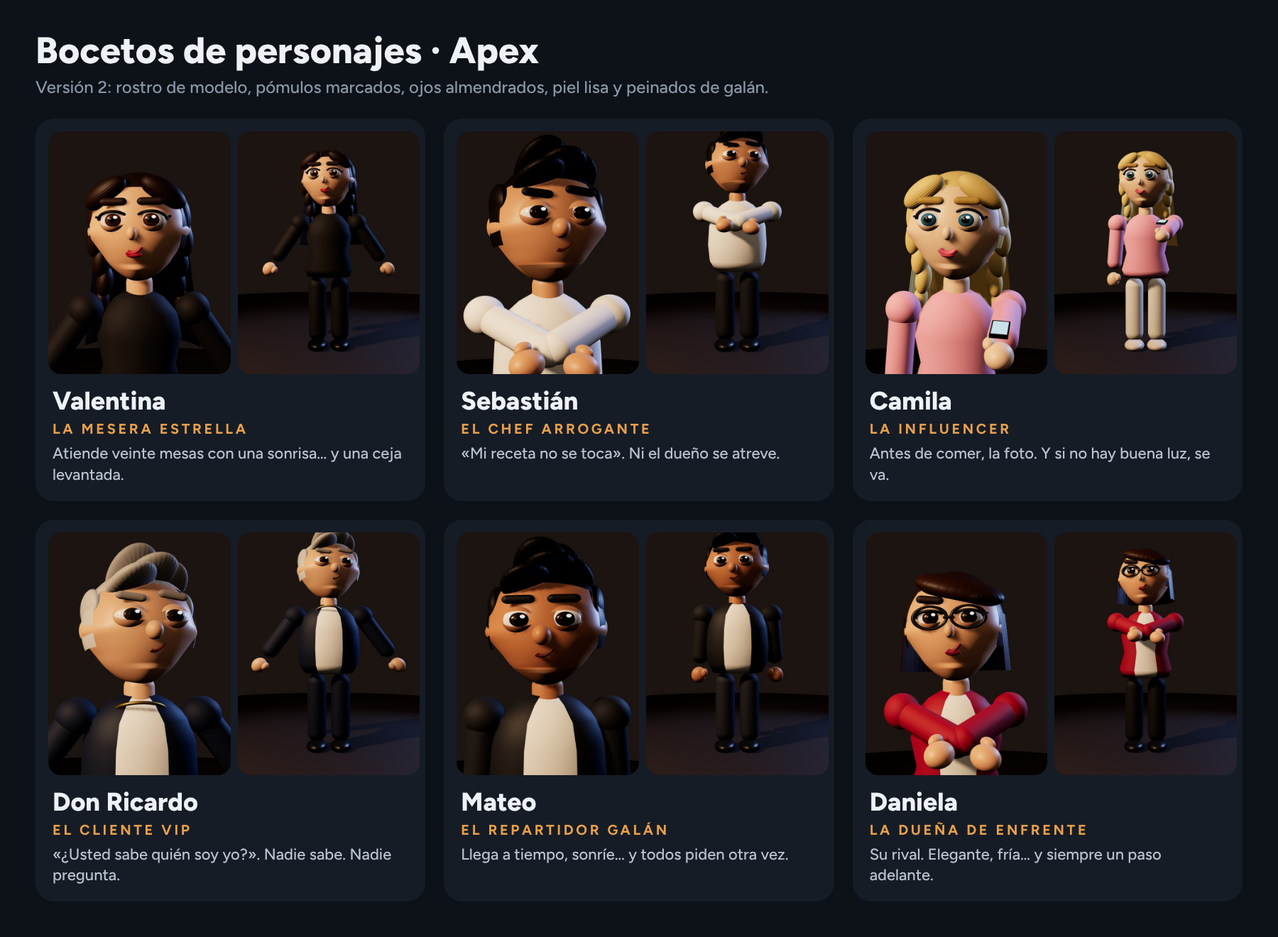
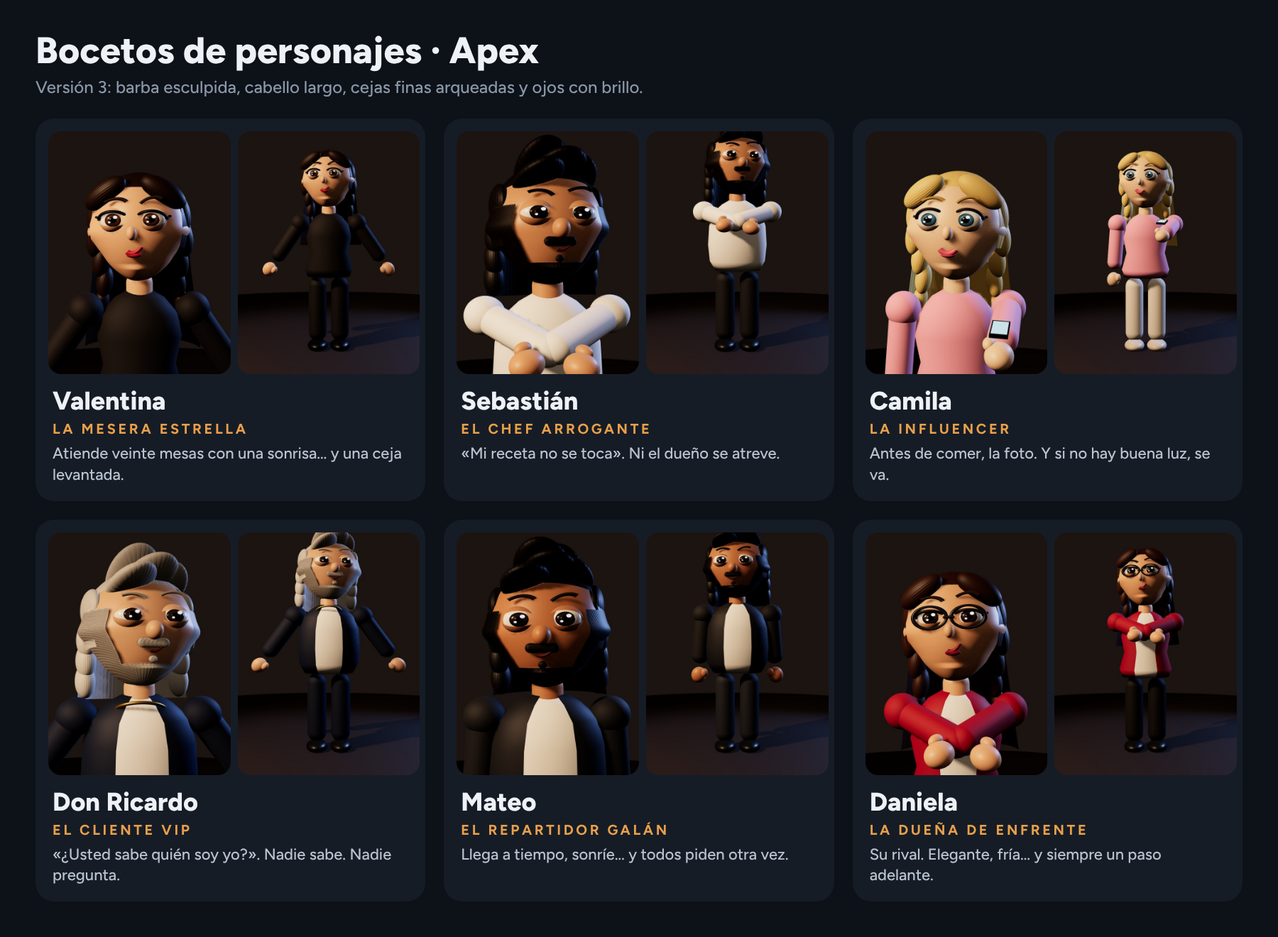
Bocetos v3: barba esculpida, cabello largo, cejas finas y ojos detallados; robot «Chispa» v2 moderno
Claude-Session: https://claude.ai/code/session_016r3h3eddn8zLcxunDkNv4C

diff --git a/produccion/redes/voxel/robot3d.js b/produccion/redes/voxel/robot3d.js
@@ -1,77 +1,67 @@
-// «Chispa»: robot mesero retro, raro y único (no es el orbe). Cuerpo de huevo esmaltado crema con bandas de cobre,
-// una sola rueda, cuello de fuelle que se estira, cabeza de tambor con un ojo-lente enorme y otro diminuto, dos antenas desparejas,
-// una oreja-antena parabólica, brazos largos de tres dedos y una ventanilla en la barriga con engranajes que brillan.
+// «Chispa» v2: robot mesero moderno y elegante (no es el orbe). Flota sobre un anillo de luz naranja, cuerpo blanco perlado
+// con placas grafito, hombros anchos y cintura fina, casco con visor negro brillante donde los ojos son luces LED que cambian de gesto,
+// aletas laterales con franjas de neón y un núcleo encendido en el pecho.
 function robot3d(cfg = {}) {
-  const c = Object.assign({ esmalte: "#efe4cf", cobre: "#c8743a", acento: "#2bb3a8", ojo: "#ffb347" }, cfg);
-  const raiz = new THREE.Group(), M = (col, r = 0.4, m = 0) => new THREE.MeshStandardMaterial({ color: col, roughness: r, metalness: m });
-  const mE = M(c.esmalte, 0.28), mC = M(c.cobre, 0.32, 0.85), mN = M("#1a1b1f", 0.5), mA = M(c.acento, 0.35, 0.2), mG = new THREE.MeshPhysicalMaterial({ color: 0xffffff, roughness: 0.05, transmission: 0.6, transparent: true, opacity: 0.35 });
-  const add = (geo, m, x, y, z, padre = raiz) => { const o = new THREE.Mesh(geo, m); o.position.set(x, y, z); o.castShadow = o.receiveShadow = true; padre.add(o); return o; };
-  // rueda
-  const rueda = add(new THREE.TorusGeometry(0.17, 0.065, 18, 40), mN, 0, 0.235, 0); rueda.rotation.y = PI / 2;
-  const cubo = add(new THREE.CylinderGeometry(0.1, 0.1, 0.1, 28), mC, 0, 0.235, 0); cubo.rotation.z = PI / 2;
-  add(new THREE.CylinderGeometry(0.035, 0.05, 0.22, 16), mC, 0, 0.42, 0);
-  // cuerpo de huevo invertido
-  const perfil = [[0.001, 0.0], [0.16, 0.02], [0.3, 0.12], [0.38, 0.3], [0.4, 0.48], [0.36, 0.66], [0.26, 0.8], [0.12, 0.87], [0.001, 0.88]].map(([r, h]) => new THREE.Vector2(r, h));
-  const cuerpo = add(new THREE.LatheGeometry(perfil, 56), mE, 0, 0.5, 0);
-  [[0.74, 0.365], [1.2, 0.34]].forEach(([y, r]) => { const b = add(new THREE.TorusGeometry(r, 0.018, 10, 56), mC, 0, y, 0); b.rotation.x = PI / 2; });
-  // ventanilla con engranajes
-  const cv = document.createElement("canvas"); cv.width = cv.height = 256; const g = cv.getContext("2d"); const tex = new THREE.CanvasTexture(cv); tex.colorSpace = THREE.SRGBColorSpace;
-  const ventana = add(new THREE.CircleGeometry(0.13, 40), new THREE.MeshBasicMaterial({ map: tex, toneMapped: false }), 0, 0.98, 0.402);
-  const aro = add(new THREE.TorusGeometry(0.135, 0.022, 12, 40), mC, 0, 0.98, 0.4);
-  for (let i = 0; i < 8; i++) { const a = (i / 8) * 2 * PI; add(new THREE.SphereGeometry(0.012, 10, 8), mC, Math.cos(a) * 0.135, 0.82 + Math.sin(a) * 0.135 + 0.16, 0.42); }
-  // perillas y botones
-  [[-0.14, 1.27, mA], [-0.06, 1.29, M("#e2463a", 0.4)], [0.13, 1.28, mC]].forEach(([x, y, m]) => add(new THREE.SphereGeometry(0.028, 14, 10), m, x, y, Math.sqrt(Math.max(0, 0.27 * 0.27 - x * x)) + 0.005));
-  // brazos: hombro de bola, segmentos largos, pinza de tres dedos
-  const brazos = [-1, 1].map((d) => { const p = new THREE.Group(); p.position.set(d * 0.38, 1.0, 0); raiz.add(p); add(new THREE.SphereGeometry(0.07, 18, 14), mC, 0, 0, 0, p);
-    const s1 = add(new THREE.CapsuleGeometry(0.035, 0.3, 6, 14), mE, 0, -0.2, 0, p); const codo = new THREE.Group(); codo.position.set(0, -0.38, 0); p.add(codo);
-    add(new THREE.SphereGeometry(0.05, 14, 10), mC, 0, 0, 0, codo); add(new THREE.CapsuleGeometry(0.03, 0.26, 6, 14), mE, 0, -0.17, 0, codo);
-    const mano = new THREE.Group(); mano.position.set(0, -0.34, 0); codo.add(mano); add(new THREE.CylinderGeometry(0.045, 0.035, 0.05, 16), mC, 0, 0, 0, mano);
-    [0, 2.1, 4.2].forEach((a) => { const f = add(new THREE.CapsuleGeometry(0.012, 0.07, 4, 8), mN, Math.cos(a) * 0.03, -0.06, Math.sin(a) * 0.03, mano); f.rotation.set(Math.sin(a) * 0.4, 0, -Math.cos(a) * 0.4); });
+  const c = Object.assign({ blanco: "#f2f3f5", grafito: "#25282e", neon: "#ff7a2e", neon2: "#ffd08a" }, cfg);
+  const raiz = new THREE.Group(), cuerpo = new THREE.Group(); raiz.add(cuerpo);
+  const P = (col, r, m = 0, cc = 0) => new THREE.MeshPhysicalMaterial({ color: col, roughness: r, metalness: m, clearcoat: cc, clearcoatRoughness: 0.15 });
+  const mB = P(c.blanco, 0.32, 0.05, 1), mG = P(c.grafito, 0.38, 0.6, 0.6), mN = new THREE.MeshBasicMaterial({ color: c.neon, toneMapped: false });
+  const add = (geo, m, x, y, z, padre = cuerpo) => { const o = new THREE.Mesh(geo, m); o.position.set(x, y, z); o.castShadow = o.receiveShadow = true; padre.add(o); return o; };
+  const resplandor = (() => { const cv = document.createElement("canvas"); cv.width = cv.height = 128; const g = cv.getContext("2d"), gr = g.createRadialGradient(64, 64, 0, 64, 64, 64);
+    gr.addColorStop(0, "rgba(255,170,90,1)"); gr.addColorStop(0.35, "rgba(255,122,46,.45)"); gr.addColorStop(1, "rgba(255,122,46,0)"); g.fillStyle = gr; g.fillRect(0, 0, 128, 128); return new THREE.CanvasTexture(cv); })();
+  const brilla = (x, y, z, s, padre = cuerpo, op = 0.8) => { const sp = new THREE.Sprite(new THREE.SpriteMaterial({ map: resplandor, transparent: true, opacity: op, blending: THREE.AdditiveBlending, depthWrite: false })); sp.position.set(x, y, z); sp.scale.setScalar(s); padre.add(sp); return sp; };
+  // base flotante: falda cónica que termina en un anillo de luz
+  const falda = add(new THREE.LatheGeometry([[0.001, 0.38], [0.12, 0.36], [0.2, 0.42], [0.25, 0.55], [0.27, 0.66], [0.001, 0.66]].map(([r, h]) => new THREE.Vector2(r, h)), 48), mB, 0, 0, 0);
+  const anillo = add(new THREE.TorusGeometry(0.14, 0.02, 12, 48), mN, 0, 0.36, 0); anillo.rotation.x = PI / 2;
+  const halo = brilla(0, 0.3, 0, 0.9, cuerpo, 0.9);
+  const haz = add(new THREE.ConeGeometry(0.22, 0.34, 32, 1, true), new THREE.MeshBasicMaterial({ color: c.neon, transparent: true, opacity: 0.07, blending: THREE.AdditiveBlending, depthWrite: false, side: THREE.DoubleSide }), 0, 0.17, 0); haz.rotation.x = PI;
+  // torso en V: hombros anchos, cintura fina; placas grafito y núcleo en el pecho
+  const torso = add(new THREE.LatheGeometry([[0.001, 0.64], [0.2, 0.64], [0.19, 0.74], [0.24, 0.92], [0.33, 1.1], [0.34, 1.2], [0.26, 1.3], [0.12, 1.34], [0.001, 1.35]].map(([r, h]) => new THREE.Vector2(r, h)), 56), mB, 0, 0, 0);
+  torso.scale.z = 0.72;
+  // (placa de pecho retirada: se veía como una franja)
+  const nucleo = add(new THREE.TorusGeometry(0.055, 0.014, 12, 40), mN, 0, 1.06, 0.245); const nucleoIn = add(new THREE.CircleGeometry(0.04, 32), new THREE.MeshBasicMaterial({ color: c.neon2, toneMapped: false }), 0, 1.06, 0.244);
+  brilla(0, 1.06, 0.27, 0.28);
+  add(new THREE.TorusGeometry(0.205, 0.012, 10, 48), mG, 0, 0.66, 0).rotation.x = PI / 2;
+  // hombros, brazos segmentados con franja de neón y manos de tres dedos
+  const brazos = [-1, 1].map((d) => { const p = new THREE.Group(); p.position.set(d * 0.37, 1.18, 0); cuerpo.add(p);
+    const hombro = add(new THREE.SphereGeometry(0.095, 28, 20), mB, 0, 0, 0, p); add(new THREE.SphereGeometry(0.1, 28, 14, 0, 2 * PI, 0, PI * 0.45), mG, 0, 0.01, 0, p);
+    add(new THREE.CapsuleGeometry(0.052, 0.2, 8, 20), mB, 0, -0.18, 0, p); const codo = new THREE.Group(); codo.position.set(0, -0.32, 0); p.add(codo);
+    add(new THREE.SphereGeometry(0.05, 20, 14), mG, 0, 0, 0, codo); add(new THREE.CapsuleGeometry(0.048, 0.18, 8, 20), mG, 0, -0.14, 0, codo);
+    add(new THREE.BoxGeometry(0.012, 0.16, 0.05), mN, d * 0.046, -0.14, 0, codo);
+    const mano = new THREE.Group(); mano.position.set(0, -0.28, 0); codo.add(mano); add(new THREE.SphereGeometry(0.055, 20, 14), mB, 0, 0, 0, mano).scale.set(1, 0.8, 0.7);
+    [-1, 0, 1].forEach((k) => add(new THREE.CapsuleGeometry(0.013, 0.05, 4, 10), mG, k * 0.022, -0.06, 0.01, mano)); add(new THREE.CapsuleGeometry(0.014, 0.04, 4, 10), mG, -d * 0.05, -0.02, 0.02, mano).rotation.z = d * 0.8;
     return { p, codo, mano }; });
-  // bandeja con una tacita en la mano derecha
-  const bandeja = new THREE.Group(); brazos[1].mano.add(bandeja); bandeja.position.set(0, -0.1, 0.1);
-  add(new THREE.CylinderGeometry(0.17, 0.16, 0.014, 40), M("#b9bec4", 0.2, 0.9), 0, 0, 0.06, bandeja);
-  add(new THREE.CylinderGeometry(0.04, 0.032, 0.06, 20), M("#f4f1ea", 0.3), 0.03, 0.035, 0.07, bandeja);
-  // cuello de fuelle
-  const cuello = new THREE.Group(); cuello.position.set(0, 1.38, 0); raiz.add(cuello);
-  for (let i = 0; i < 6; i++) { const t = add(new THREE.TorusGeometry(0.075 - (i % 2) * 0.012, 0.025, 10, 28), i % 2 ? mN : mC, 0, i * 0.045, 0, cuello); t.rotation.x = PI / 2; }
-  // cabeza de tambor (cilindro acostado), ojo-lente enorme y ojo diminuto
-  const cabeza = new THREE.Group(); cabeza.position.set(0, 0.36, 0); cuello.add(cabeza);
-  const tambor = add(new THREE.CylinderGeometry(0.24, 0.24, 0.46, 48), mE, 0, 0, 0, cabeza); tambor.rotation.z = PI / 2;
-  [-1, 1].forEach((d) => { const tapa = add(new THREE.CylinderGeometry(0.245, 0.245, 0.03, 48), mC, d * 0.24, 0, 0, cabeza); tapa.rotation.z = PI / 2; });
-  const ojo = new THREE.Group(); ojo.position.set(-0.07, 0.02, 0.2); cabeza.add(ojo);
-  const barril = add(new THREE.CylinderGeometry(0.14, 0.15, 0.12, 40), mN, 0, 0, 0.04, ojo); barril.rotation.x = PI / 2;
-  const aroOjo = add(new THREE.TorusGeometry(0.145, 0.02, 12, 40), mC, 0, 0, 0.1, ojo);
-  const iris = add(new THREE.CircleGeometry(0.1, 40), new THREE.MeshBasicMaterial({ color: c.ojo, toneMapped: false }), 0, 0, 0.101, ojo);
-  const pupila = add(new THREE.CircleGeometry(0.045, 32), new THREE.MeshBasicMaterial({ color: 0x120a04 }), 0, 0, 0.102, ojo);
-  const cristal = add(new THREE.SphereGeometry(0.13, 32, 16, 0, 2 * PI, 0, PI / 2), mG, 0, 0, 0.09, ojo); cristal.rotation.x = PI / 2; cristal.scale.z = 0.5;
-  const brillo = add(new THREE.CircleGeometry(0.02, 16), new THREE.MeshBasicMaterial({ color: 0xffffff }), 0.04, 0.05, 0.135, ojo);
-  const luzOjo = new THREE.PointLight(c.ojo, 0.8, 1.2, 2); luzOjo.position.set(0, 0, 0.25); ojo.add(luzOjo);
-  const ojito = new THREE.Group(); ojito.position.set(0.15, 0.08, 0.215); cabeza.add(ojito);
-  const b2 = add(new THREE.CylinderGeometry(0.035, 0.04, 0.05, 20), mN, 0, 0, 0.0, ojito); b2.rotation.x = PI / 2;
-  add(new THREE.CircleGeometry(0.024, 20), new THREE.MeshBasicMaterial({ color: c.acento, toneMapped: false }), 0, 0, 0.026, ojito);
-  // boca: rejilla de altavoz
-  for (let i = 0; i < 5; i++) add(new THREE.BoxGeometry(0.012, 0.05, 0.01), mN, 0.08 + i * 0.022, -0.13, 0.205, cabeza);
-  // antenas desparejas con bombillo y oreja parabólica
-  const ant1 = add(new THREE.CylinderGeometry(0.008, 0.008, 0.32, 8), mC, -0.12, 0.38, -0.02, cabeza); ant1.rotation.z = 0.25;
-  const bomb1 = add(new THREE.SphereGeometry(0.035, 16, 12), new THREE.MeshBasicMaterial({ color: 0xffd27a, toneMapped: false }), -0.16, 0.54, -0.02, cabeza);
-  const ant2 = new THREE.Group(); ant2.position.set(0.12, 0.22, 0); cabeza.add(ant2);
-  const a2a = add(new THREE.CylinderGeometry(0.007, 0.007, 0.14, 8), mC, 0, 0.07, 0, ant2); const a2b = add(new THREE.CylinderGeometry(0.007, 0.007, 0.12, 8), mC, 0.05, 0.16, 0, ant2); a2b.rotation.z = -1.0;
-  const bomb2 = add(new THREE.SphereGeometry(0.022, 14, 10), new THREE.MeshBasicMaterial({ color: c.acento, toneMapped: false }), 0.1, 0.19, 0, ant2);
-  const oreja = new THREE.Group(); oreja.position.set(0.27, 0.05, 0); cabeza.add(oreja);
-  const plato = add(new THREE.SphereGeometry(0.11, 28, 12, 0, 2 * PI, 0, PI * 0.35), mE, 0.04, 0, 0, oreja); plato.rotation.z = -PI / 2;
-  add(new THREE.CylinderGeometry(0.006, 0.006, 0.08, 6), mC, 0.06, 0, 0, oreja).rotation.z = PI / 2;
+  // cuello y casco con visor negro brillante y ojos LED
+  add(new THREE.CylinderGeometry(0.06, 0.08, 0.1, 24), mG, 0, 1.38, 0);
+  const cabeza = new THREE.Group(); cabeza.position.set(0, 1.58, 0); cuerpo.add(cabeza);
+  const casco = add(new THREE.SphereGeometry(0.2, 48, 32), mB, 0, 0, 0, cabeza); casco.scale.set(1.12, 0.92, 1.0);
+  const cv = document.createElement("canvas"); cv.width = 512; cv.height = 256; const gx = cv.getContext("2d"), texV = new THREE.CanvasTexture(cv); texV.colorSpace = THREE.SRGBColorSpace;
+  const visor = add(new THREE.SphereGeometry(0.205, 48, 24, PI * 0.18, PI * 0.64, PI * 0.33, PI * 0.36), new THREE.MeshPhysicalMaterial({ map: texV, emissiveMap: texV, emissive: 0xffffff, emissiveIntensity: 1.1, color: 0x050608, roughness: 0.08, clearcoat: 1 }), 0, 0, 0, cabeza);
+  visor.scale.set(1.13, 0.93, 1.02);
+  [-1, 1].forEach((d) => { const aleta = add(new THREE.BoxGeometry(0.035, 0.2, 0.12), mG, d * 0.23, 0.02, -0.02, cabeza); aleta.rotation.z = -d * 0.18;
+    add(new THREE.BoxGeometry(0.012, 0.16, 0.02), mN, d * 0.25, 0.02, 0.03, cabeza).rotation.z = -d * 0.18; });
+  add(new THREE.CapsuleGeometry(0.012, 0.09, 4, 8), mG, 0.07, 0.22, -0.02, cabeza).rotation.z = -0.35; const punta = add(new THREE.SphereGeometry(0.022, 14, 10), mN, 0.095, 0.28, -0.02, cabeza);
+  brilla(0.095, 0.28, -0.02, 0.14, cabeza);
+  // ojos LED: dibujados en el visor; gestos: «feliz», «guiño», «enfoca», «hablando»
+  function ojos(t, gesto, voz) {
+    gx.fillStyle = "#030406"; gx.fillRect(0, 0, 512, 256); gx.save(); gx.shadowColor = c.neon; gx.shadowBlur = 26; gx.fillStyle = c.neon2; gx.strokeStyle = c.neon2; gx.lineWidth = 22; gx.lineCap = "round";
+    const parp = (t % 3.6) < 0.12;
+    [[180, -1], [332, 1]].forEach(([x, d]) => {
+      if (parp) { gx.beginPath(); gx.moveTo(x - 36, 128); gx.lineTo(x + 36, 128); gx.stroke(); return; }
+      if (gesto === "feliz" || (gesto === "guiño" && d > 0)) { gx.beginPath(); gx.arc(x, 145, 38, PI * 1.15, PI * 1.85); gx.stroke(); return; }
+      const h = gesto === "enfoca" ? 36 : 64; gx.beginPath(); gx.roundRect(x - 30, 128 - h / 2, 60, h, 26); gx.fill();
+      gx.fillStyle = "rgba(255,255,255,.85)"; gx.beginPath(); gx.arc(x + 12, 128 - h / 4, 8, 0, 2 * PI); gx.fill(); gx.fillStyle = c.neon2; });
+    if (voz > 0.05) { gx.lineWidth = 8; gx.beginPath(); for (let i = 0; i <= 20; i++) { const xx = 196 + i * 6; gx.lineTo(xx, 205 + Math.sin(i * 1.3 + t * 18) * 14 * voz); } gx.stroke(); }
+    gx.restore(); texV.needsUpdate = true;
+  }
   function animar(t, s = {}) {
-    const habla = s.voz || 0; cuello.scale.y = 1 + 0.15 * Math.sin(t * 1.3) * 0.3 + (s.estira || 0); cabeza.rotation.set(Math.sin(t * 0.9) * 0.05, s.mira ?? Math.sin(t * 0.6) * 0.25, Math.sin(t * 0.7) * 0.06 + (s.ladea || 0));
-    oreja.rotation.x = t * 3; bomb1.material.color.setHSL(0.11, 1, 0.55 + 0.25 * Math.abs(Math.sin(t * 4))); bomb2.material.color.setHSL(0.48, 0.8, 0.4 + 0.3 * Math.abs(Math.sin(t * 6 + 1)));
-    const z = 1 + 0.25 * Math.sin(t * 2.5) * (s.enfoca ?? 0.4); iris.scale.setScalar(z); pupila.scale.setScalar(1.4 - 0.5 * z); luzOjo.intensity = 0.6 + habla * 1.2;
-    brazos[0].p.rotation.set(-0.3 + Math.sin(t * 1.1) * 0.08, 0, -0.25); brazos[0].codo.rotation.x = -0.5; brazos[1].p.rotation.set(-0.9, 0, 0.15); brazos[1].codo.rotation.x = -0.9;
-    bandeja.rotation.x = 0.9 + 0.9 - 0.0; bandeja.rotation.x = -(brazos[1].p.rotation.x + brazos[1].codo.rotation.x);
-    g.fillStyle = "#1a0f06"; g.fillRect(0, 0, 256, 256);
-    [[90, 110, 70, 10, 1], [170, 150, 50, 8, -1.6], [120, 190, 36, 7, 2.2]].forEach(([x, y, r, n, v]) => { g.save(); g.translate(x, y); g.rotate(t * v); g.fillStyle = "#ffb347"; g.shadowColor = "#ff8a00"; g.shadowBlur = 18;
-      g.beginPath(); for (let i = 0; i < n * 2; i++) { const a = (i / (n * 2)) * 2 * PI, rr = i % 2 ? r : r * 0.78; g.lineTo(Math.cos(a) * rr, Math.sin(a) * rr); } g.closePath(); g.fill();
-      g.fillStyle = "#1a0f06"; g.beginPath(); g.arc(0, 0, r * 0.3, 0, 2 * PI); g.fill(); g.restore(); });
-    tex.needsUpdate = true; rueda.rotation.x = t * 2;
+    cuerpo.position.y = 0.05 + Math.sin(t * 1.6) * 0.025; cuerpo.rotation.z = Math.sin(t * 0.9) * 0.02;
+    cabeza.rotation.set(Math.sin(t * 0.8) * 0.04 + (s.cabeceo || 0), s.mira ?? Math.sin(t * 0.5) * 0.18, s.ladea ?? 0.08);
+    brazos[0].p.rotation.set(-0.15, 0, -0.16); brazos[0].codo.rotation.x = -0.35;
+    if (s.saluda) { brazos[1].p.rotation.set(-0.3, 0, 2.5); brazos[1].codo.rotation.set(0, 0, 0.4 + Math.sin(t * 7) * 0.35); }
+    else { brazos[1].p.rotation.set(-0.15, 0, 0.16); brazos[1].codo.rotation.x = -0.35; }
+    const pulso = 0.75 + 0.25 * Math.sin(t * 4); halo.material.opacity = 0.7 * pulso; anillo.scale.setScalar(1 + 0.05 * Math.sin(t * 4)); nucleoIn.material.color.setHSL(0.07, 1, 0.55 + 0.15 * pulso);
+    punta.scale.setScalar(0.8 + 0.4 * Math.abs(Math.sin(t * 3))); ojos(t, s.gesto || "normal", s.voz || 0);
   }
   return { raiz, animar };
 }

diff --git a/produccion/redes/voxel/vinil3d.js b/produccion/redes/voxel/vinil3d.js
@@ -25,6 +25,12 @@ VIN.rostro = (geo, R) => {   // deforma una esfera de radio R: mandíbula en V, 
     if (yn < -0.7 && v.z > 0) v.z += 0.025 * R / 0.3 * Math.exp(-(v.x * v.x) / 0.006);          // mentón
     p.setXYZ(i, v.x, v.y, v.z); }
   p.needsUpdate = true; geo.computeVertexNormals(); return geo; };
+VIN.irisMat = (col) => { const cv = document.createElement("canvas"); cv.width = cv.height = 128; const g = cv.getContext("2d"), base = new THREE.Color(col);
+  const c1 = "#" + base.clone().multiplyScalar(1.7).getHexString(), c0 = "#" + base.clone().multiplyScalar(0.45).getHexString();
+  g.fillStyle = c0; g.fillRect(0, 0, 128, 128); const gr = g.createRadialGradient(64, 64, 6, 64, 64, 64); gr.addColorStop(0, c1); gr.addColorStop(0.7, col); gr.addColorStop(0.92, c0); gr.addColorStop(1, "#0a0605");
+  g.fillStyle = gr; g.beginPath(); g.arc(64, 64, 64, 0, 2 * PI); g.fill(); g.strokeStyle = "rgba(255,255,255,.18)"; g.lineWidth = 1.5;
+  for (let i = 0; i < 46; i++) { const a = (i / 46) * 2 * PI; g.beginPath(); g.moveTo(64 + Math.cos(a) * 16, 64 + Math.sin(a) * 16); g.lineTo(64 + Math.cos(a) * 54, 64 + Math.sin(a) * 54); g.stroke(); }
+  const t = new THREE.CanvasTexture(cv); t.colorSpace = THREE.SRGBColorSpace; return new THREE.MeshStandardMaterial({ map: t, roughness: 0.15 }); };
 VIN.crecer = (perfil, d) => perfil.map(([r, h]) => [r > 0.01 ? r + d : r, h]);
 
 function personaVinil(cfg) {
@@ -75,7 +81,10 @@ function personaVinil(cfg) {
     if (c.peinado === "galan") {   // tupé con raya al lado: mechones largos que suben y caen hacia atrás
       [[-0.08, 0.24, 0.15, 0.14, -0.25, 0.3], [0.04, 0.29, 0.1, 0.15, -0.35, 0.08], [0.13, 0.27, 0.05, 0.13, -0.45, -0.25], [-0.02, 0.32, -0.04, 0.16, -0.7, 0.1], [0.07, 0.3, -0.14, 0.14, -0.95, -0.1]]
         .forEach(([x0, y0, z0, r, rx, rz]) => { const m = VIN.esfera(r, mPelo, x0, y0, z0, H, 0.95, 0.42, 1.55); m.rotation.set(rx, 0, rz); });
-      [-1, 1].forEach((d) => VIN.esfera(0.13, mPelo, d * 0.25, 0.12, -0.04, H, 0.42, 0.9, 1.3)); }
+      [-1, 1].forEach((d) => VIN.esfera(0.13, mPelo, d * 0.25, 0.12, -0.04, H, 0.42, 0.9, 1.3));
+      if (c.largo) { const mL = M(c.pelo, { r: 0.45, bump: VIN.surcos, bs: 1.3, lado: THREE.DoubleSide });
+        VIN.malla(new THREE.CylinderGeometry(0.3, 0.33, 0.42, 44, 1, true, PI * 0.6, PI * 0.8), mL, 0, -0.2, -0.03, H);
+        [-1, 1].forEach((d) => { for (let i = 0; i < 3; i++) VIN.esfera(0.08, mPelo, d * 0.27, -0.06 - i * 0.12, -0.08 - i * 0.03, H, 0.7, 1.3, 0.9); }); } }
     if (c.peinado === "melena") { const mL = M(c.pelo, { r: 0.4, bump: VIN.surcos, bs: 1.4, lado: THREE.DoubleSide });   // melena larga en capas con flequillo abierto
       VIN.malla(new THREE.CylinderGeometry(0.29, 0.38, 0.78, 48, 1, true, PI * 0.55, PI * 0.9), mL, 0, -0.38, -0.04, H);
       [-1, 1].forEach((d) => { for (let i = 0; i < 5; i++) { const m = VIN.esfera(0.1 - i * 0.008, mPelo, d * (0.25 + 0.02 * Math.sin(i * 1.7)), 0.08 - i * 0.14, 0.02 - i * 0.03, H, 0.7, 1.35, 0.85); m.rotation.z = d * 0.15; }
@@ -88,11 +97,13 @@ function personaVinil(cfg) {
   const mPar = M(c.piel, { r: 0.62 }), mCeja = M(c.cejas, { r: 0.55 });
   const ojos = [-1, 1].map((d) => { const g = new THREE.Group(); g.position.set(d * 0.108, 0.035, 0.235); H.add(g);
     const bola = new THREE.Group(); g.add(bola); if (c.almendra) g.scale.set(1.12, 0.86, 1); VIN.esfera(0.07, mBlanco, 0, 0, 0, bola, 1, 1.12, 0.8);
-    VIN.esfera(0.042, mIris, 0, 0, 0.042, bola, 1, 1.05, 0.5); VIN.esfera(0.022, mPupila, 0, 0, 0.058, bola, 1, 1, 0.4);
+    VIN.esfera(0.042, c.modelo ? VIN.irisMat(c.iris) : mIris, 0, 0, 0.042, bola, 1, 1.05, 0.5); if (c.modelo) VIN.esfera(0.007, mBrillo, -0.016, -0.014, 0.064, bola); VIN.esfera(0.022, mPupila, 0, 0, 0.058, bola, 1, 1, 0.4);
     const br = VIN.esfera(0.011, mBrillo, 0.014, 0.018, 0.066, bola); br.castShadow = false;
     const par = VIN.malla(new THREE.SphereGeometry(0.076, 32, 16, 0, 2 * PI, 0, PI / 2), mPar, 0, 0, 0, g); par.scale.set(1.02, 1.14, 1.1);
     const parInf = VIN.malla(new THREE.SphereGeometry(0.075, 32, 16, 0, 2 * PI, PI / 2, PI / 2), mPar, 0, 0, 0, g); parInf.scale.set(1.02, 1.1, 1.1); parInf.rotation.x = 0.5;
-    const ceja = VIN.capsula(0.026, 0.09, mCeja, 0, 0.115, 0.03, g); ceja.rotation.z = PI / 2; ceja.scale.set(1, 1, 0.7);
+    let ceja; if (c.modelo) { ceja = new THREE.Group(); ceja.position.set(0, 0.115, 0.03); g.add(ceja);
+      const arco = VIN.malla(new THREE.TorusGeometry(0.085, 0.011, 8, 28, PI * 0.5), mCeja, 0, -0.07, 0, ceja); arco.rotation.z = PI * 0.25 + d * 0.12; arco.scale.set(1.05, 0.8, 0.7); }
+    else { ceja = VIN.capsula(0.026, 0.09, mCeja, 0, 0.115, 0.03, g); ceja.rotation.z = PI / 2; ceja.scale.set(1, 1, 0.7); }
     return { g, bola, par, parInf, ceja, d }; });
   if (c.narizFina) VIN.esfera(0.036, mPiel, 0, -0.04, 0.29, H, 0.8, 1.1, 1.0); else VIN.esfera(0.052, mPiel, 0, -0.045, 0.285, H, 0.85, 1.0, 1.05);   // nariz
   if (c.narizGrande) VIN.esfera(0.068, mPiel, 0, -0.05, 0.285, H, 0.85, 1.05, 1.1);
@@ -102,8 +113,13 @@ function personaVinil(cfg) {
   if (c.bigoteFino) { const b = VIN.capsula(0.01, 0.1, M(c.bigoteFino), 0, -0.098, 0.283, H); b.rotation.z = PI / 2; }
   if (c.gafas) { const mg = M(c.gafas, { r: 0.3 }); ojos.forEach(({ g }) => { const ar = VIN.malla(new THREE.TorusGeometry(0.085, 0.011, 8, 36), mg, 0, 0, 0.045, g); ar.scale.y = 0.85; });
     VIN.capsula(0.008, 0.05, mg, 0, 0.035, 0.29, H).rotation.z = PI / 2; }
-  if (c.barba) { const mb = new THREE.MeshStandardMaterial({ color: c.barba, roughness: 0.95, transparent: true, opacity: 0.38, bumpMap: VIN.surcos, bumpScale: 0.5 });
-    const bb = VIN.malla(new THREE.SphereGeometry(0.304, 48, 16, PI * 0.1, PI * 0.8, PI * 0.74, PI * 0.2), mb, 0, 0, 0, H); bb.scale.set(1, c.modelo ? 1.1 : 1.06, 0.965); if (c.modelo) VIN.rostro(bb.geometry, 0.304); bb.castShadow = false; }
+  if (c.barba) { const mb = M(c.barba, { r: 0.55, bump: VIN.surcos, bs: 1.6, lado: THREE.DoubleSide });
+    const sy = c.modelo ? 1.1 : 1.06, capa = (ph0, phL, th0, thL) => { const o = VIN.malla(new THREE.SphereGeometry(0.312, 56, 20, ph0, phL, th0, thL), mb, 0, 0, 0, H); o.scale.set(1.01, sy, 0.98);
+      if (c.modelo) VIN.rostro(o.geometry, 0.312); return o; };
+    capa(PI * 0.02, PI * 0.96, PI * 0.72, PI * 0.27);                                        // mandíbula y mentón
+    capa(PI * 0.02, PI * 0.24, PI * 0.42, PI * 0.32); capa(PI * 0.74, PI * 0.24, PI * 0.42, PI * 0.32);   // patillas
+    const bg = VIN.capsula(0.026, 0.11, mb, 0, -0.112, 0.268, H); bg.rotation.z = PI / 2; bg.scale.z = 0.6;   // bigote
+    VIN.esfera(0.022, mb, 0, -0.2, 0.25, H, 1, 0.9, 0.6); }
   if (c.pestanas) { const mp = M(c.pestanas, { r: 0.35 }); ojos.forEach(({ par, d }) => {   // delineado sobre el párpado y una «colita» hacia afuera
       const arco = VIN.malla(new THREE.TorusGeometry(0.077, 0.0085, 8, 30, PI * 0.95), mp, 0, 0.004, 0, par); arco.rotation.set(PI / 2, 0, PI * 0.025);
       const cola = VIN.capsula(0.007, 0.03, mp, d * 0.078, 0.012, 0.012, par); cola.rotation.set(0, 0, -d * 1.1); }); }
@@ -138,7 +154,7 @@ function personaVinil(cfg) {
         bola.rotation.set(-(s.my || 0) * 0.25, (s.mx || 0) * 0.35, 0); const eo = 0.92 + 0.08 * ojo; g.scale.set(eo * (c.almendra ? 1.12 : 1), eo * (c.almendra ? 0.86 : 1), eo);
         par.rotation.x = lerp(-1.0, 1.6, Math.pow(cl(lid), 1.7)); parInf.rotation.x = lerp(0.62, 0.35, cl(lid));
         const asim = e.asim && d > 0 ? 1 : 0;
-        ceja.position.y = 0.112 - alto * 0.0075 + asim * 0.018; ceja.rotation.z = PI / 2 + inc * d * 1.25 * (asim ? -1.4 : 1);
+        ceja.position.y = (c.modelo ? 0.125 : 0.112) - alto * 0.0075 + asim * 0.018; ceja.rotation.z = (c.modelo ? 0 : PI / 2) + inc * d * 1.25 * (asim ? -1.4 : 1);
       });
       boca.scale.set(1.25 - ab * 0.25, 0.08 + ab * 0.85, 0.45); boca.visible = ab > 0.05;
       sonrisa.visible = ab <= 0.05; const sg = curva >= 0 ? 1 : -1;

diff --git a/produccion/redes/voxel/robot.py b/produccion/redes/voxel/robot.py
@@ -1,10 +1,11 @@
 """Boceto del robot «Chispa»: hoja con vista de tres cuartos, de frente, de perfil y primer plano de la cabeza.
   python robot.py  →  entregables/redes/bocetos/robot.png"""
-import os, asyncio, importlib.util
+import os, json, asyncio, importlib.util
 AQUI = os.path.dirname(os.path.abspath(__file__)) + "/"
 _spec = importlib.util.spec_from_file_location("motor", AQUI + "../heroes/hacer.py"); motor = importlib.util.module_from_spec(_spec); _spec.loader.exec_module(motor)
 RAIZ = motor.RAIZ; SALIDA = RAIZ + "entregables/redes/bocetos/"; THREE = motor.TRABAJO + "three/package/build/three.min.js"
-VISTAS = [("tres cuartos", [1.6, 1.4, 2.9], [0, 1.05, 0], 34), ("de frente", [0, 1.25, 3.2], [0, 1.05, 0], 34), ("de perfil", [3.2, 1.3, 0.2], [0, 1.05, 0], 34), ("la cabeza", [0.95, 1.92, 1.75], [0, 1.76, 0], 30)]
+VISTAS = [("saluda", [1.5, 1.35, 2.8], [0, 1.0, 0], 34, dict(saluda=True, gesto="feliz")), ("de frente", [0, 1.2, 3.1], [0, 1.0, 0], 34, dict(gesto="normal", mira=0, ladea=0)),
+          ("de perfil", [3.1, 1.25, 0.6], [0, 1.0, 0], 34, dict(gesto="enfoca", mira=0.5)), ("hablando", [0.7, 1.75, 1.35], [0, 1.62, 0], 30, dict(gesto="normal", voz=0.8, mira=0.25))]
 
 def pagina(W):
     leer = lambda p: open(p).read()
@@ -13,23 +14,22 @@ def pagina(W):
 body{{margin:0;background:#0d1118;color:#eef2f6;font-family:Figtree;width:1800px}} h1{{font:800 56px Figtree;margin:40px 50px 4px}} h3{{font:700 22px Figtree;letter-spacing:.2em;color:#e8a04a;margin:0 50px}}
 p{{font:500 26px/1.4 Figtree;color:#b9c4d0;margin:14px 50px 26px;max-width:1500px}} .g{{display:flex;gap:18px;padding:0 50px 50px}} figure{{margin:0;flex:1;background:#161c26;border-radius:22px;padding:12px}}
 img{{width:100%;border-radius:14px}} figcaption{{font:700 20px Figtree;letter-spacing:.16em;text-transform:uppercase;color:#8a98a8;margin:10px 6px 2px}}</style></head><body>
-<h1>Chispa</h1><h3>EL ROBOT MESERO · BOCETO</h3>
-<p>Un robot retro que no se parece a nada: cuerpo de huevo esmaltado con bandas de cobre, una sola rueda, cuello de fuelle que se estira cuando algo le interesa,
-cabeza de tambor con un ojo-lente enorme que enfoca y otro diminuto, dos antenas desparejas, una oreja parabólica que gira y una ventanilla en la barriga donde se ven sus engranajes encendidos.</p>
+<h1>Chispa</h1><h3>EL ROBOT MESERO · BOCETO V2</h3>
+<p>Moderno y elegante: flota sobre un anillo de luz naranja, cuerpo blanco perlado con placas grafito, hombros anchos y cintura fina, núcleo encendido en el pecho y un casco con visor negro brillante donde sus ojos son luces LED que cambian de gesto: feliz, guiño, enfoca y una onda cuando habla.</p>
 <div class="g">{imgs}</div><canvas id="lienzo" width="600" height="800" style="display:none"></canvas>
 <script src="file://{THREE}"></script>
-<script>const PI = Math.PI; const VISTAS = {[[list(a), list(b), f] for (_, a, b, f) in VISTAS]};
+<script>const PI = Math.PI; const VISTAS = {json.dumps([[list(a), list(b), f, e] for (_, a, b, f, e) in VISTAS])};
 {leer(AQUI + "robot3d.js")}
 const REN = new THREE.WebGLRenderer({{ canvas: document.getElementById("lienzo"), antialias: true, preserveDrawingBuffer: true }});
 REN.setSize(600, 800, false); REN.shadowMap.enabled = true; REN.toneMapping = THREE.ACESFilmicToneMapping; REN.toneMappingExposure = 1.2; REN.outputColorSpace = THREE.SRGBColorSpace;
-const ESC = new THREE.Scene(); ESC.background = new THREE.Color(0x14181f);
+const ESC = new THREE.Scene(); ESC.background = new THREE.Color(0x101318);
 const piso = new THREE.Mesh(new THREE.CircleGeometry(5, 48), new THREE.MeshStandardMaterial({{ color: 0x232833, roughness: 0.7 }})); piso.rotation.x = -PI / 2; piso.receiveShadow = true; ESC.add(piso);
 const llave = new THREE.SpotLight(0xffe2c0, 70, 14, 0.5, 0.6, 2); llave.position.set(-2.4, 4.0, 3.0); llave.castShadow = true; llave.shadow.mapSize.set(1024, 1024); ESC.add(llave);
 const contra = new THREE.SpotLight(0x7fd8ff, 55, 14, 0.6, 0.7, 2); contra.position.set(2.6, 3.0, -2.8); ESC.add(contra);
 ESC.add(new THREE.HemisphereLight(0xfff0e0, 0x101418, 0.6));
-const R = robot3d(); ESC.add(R.raiz); llave.target = R.raiz; contra.target = R.raiz; R.animar(1.7, {{ enfoca: 0.4 }});
+const R = robot3d(); ESC.add(R.raiz); llave.target = R.raiz; contra.target = R.raiz; 
 const CAM = new THREE.PerspectiveCamera(34, 600 / 800, 0.05, 50);
-VISTAS.forEach(([p, t, f], i) => {{ CAM.fov = f; CAM.position.set(...p); CAM.lookAt(...t); CAM.updateProjectionMatrix(); REN.render(ESC, CAM); document.getElementById("v" + i).src = REN.domElement.toDataURL("image/jpeg", 0.92); }});
+VISTAS.forEach(([p, t, f, e], i) => {{ R.animar(1.7, e); CAM.fov = f; CAM.position.set(...p); CAM.lookAt(...t); CAM.updateProjectionMatrix(); REN.render(ESC, CAM); document.getElementById("v" + i).src = REN.domElement.toDataURL("image/jpeg", 0.92); }});
 </script></body></html>'''
     open(W + "robot.html", "w").write(html)
 

diff --git a/produccion/redes/voxel/bocetos.py b/produccion/redes/voxel/bocetos.py
@@ -11,7 +11,7 @@ PERSONAJES = [
                   camisa="#1b1b20", pantalon="#1b1b20", zapatos="#0e0e10", iris="#5a3418", alto=0.96, semilla=41),
          pose=dict(emo="seductor", gesto="cadera", mira=-12, miraY=-0.04)),
     dict(id="sebastian", nombre="Sebastián", rol="El chef arrogante", frase="«Mi receta no se toca». Ni el dueño se atreve.",
-         cfg=dict(piel="#cf9670", pelo="#141010", cejas="#141010", peinado="galan", modelo=True, barba="#2a1e18", almendra=True, camisa="#f4f2ee", pantalon="#26282e", hombros=1.08,
+         cfg=dict(piel="#cf9670", pelo="#141010", cejas="#141010", peinado="galan", largo=True, modelo=True, barba="#1e1612", almendra=True, camisa="#f4f2ee", pantalon="#26282e", hombros=1.08,
                   iris="#2a1a10", alto=1.04, semilla=42),
          pose=dict(emo="arrogante", gesto="cruzado", mira=10, miraY=-0.12)),
     dict(id="camila", nombre="Camila", rol="La influencer", frase="Antes de comer, la foto. Y si no hay buena luz, se va.",
@@ -19,15 +19,15 @@ PERSONAJES = [
                   camisa="#f2a0be", pantalon="#e9e2d8", zapatos="#d9c9b9", iris="#3a6a8a", alto=0.95, semilla=43),
          pose=dict(emo="feliz", gesto="celular", mira=-15, miraY=0.0)),
     dict(id="ricardo", nombre="Don Ricardo", rol="El cliente VIP", frase="«¿Usted sabe quién soy yo?». Nadie sabe. Nadie pregunta.",
-         cfg=dict(piel="#dba987", pelo="#c4c2bf", cejas="#9a9692", peinado="galan", modelo=True, almendra=True, cadena="#e0b84a", saco="#14213a", camisa="#f4f2ee", pantalon="#14213a",
+         cfg=dict(piel="#dba987", pelo="#c4c2bf", cejas="#9a9692", peinado="galan", largo=True, modelo=True, barba="#bdb9b4", almendra=True, cadena="#e0b84a", saco="#14213a", camisa="#f4f2ee", pantalon="#14213a",
                   hombros=1.1, iris="#3a2a1a", alto=1.02, semilla=44),
          pose=dict(emo="arrogante", gesto="cadera", mira=12, miraY=-0.16)),
     dict(id="mateo", nombre="Mateo", rol="El repartidor galán", frase="Llega a tiempo, sonríe… y todos piden otra vez.",
-         cfg=dict(piel="#b87c56", pelo="#121010", cejas="#121010", peinado="galan", modelo=True, barba="#1e1612", almendra=True, saco="#1d2027", camisa="#f2efe8", pantalon="#2a2f3a",
+         cfg=dict(piel="#b87c56", pelo="#121010", cejas="#121010", peinado="galan", largo=True, modelo=True, barba="#121010", almendra=True, saco="#1d2027", camisa="#f2efe8", pantalon="#2a2f3a",
                   hombros=1.1, iris="#2a1a10", alto=1.03, semilla=45),
          pose=dict(emo="seductor", gesto="reposo", mira=-8, miraY=-0.03)),
     dict(id="daniela", nombre="Daniela", rol="La dueña de enfrente", frase="Su rival. Elegante, fría… y siempre un paso adelante.",
-         cfg=dict(piel="#dfa680", pelo="#3a1e14", cejas="#2a160e", peinado="bob", modelo=True, gafas="#141414", pestanas="#120c0a", labios="#8e2a3a", almendra=True, narizFina=True, torsoF=True,
+         cfg=dict(piel="#dfa680", pelo="#3a1e14", cejas="#2a160e", peinado="melena", modelo=True, gafas="#141414", pestanas="#120c0a", labios="#8e2a3a", almendra=True, narizFina=True, torsoF=True,
                   saco="#9a1f2e", camisa="#f4f1ea", pantalon="#1a1a1e", iris="#3a2416", alto=0.97, semilla=46),
          pose=dict(emo="arrogante", gesto="cruzado", mira=-10, miraY=-0.1)),
 ]
@@ -41,7 +41,7 @@ body{{margin:0;background:#0d1118;color:#eef2f6;font-family:Figtree;width:1800px
 .g{{display:grid;grid-template-columns:repeat(3,1fr);gap:26px;padding:0 50px 50px}} .t{{background:#161c26;border-radius:26px;padding:18px 18px 22px}}
 .fotos{{display:flex;gap:10px}} .fotos img{{width:50%;border-radius:18px;background:#222}} h2{{font:800 36px Figtree;margin:16px 6px 0}} h3{{font:700 20px Figtree;letter-spacing:.18em;text-transform:uppercase;color:#e8a04a;margin:6px 6px}}
 p{{font:500 22px/1.35 Figtree;color:#b9c4d0;margin:8px 6px 0}}</style></head><body>
-<h1>Bocetos de personajes · Apex</h1><div class="sub">Versión 2: rostro de modelo, pómulos marcados, ojos almendrados, piel lisa y peinados de galán.</div><div class="g">{tarjetas}</div>
+<h1>Bocetos de personajes · Apex</h1><div class="sub">Versión 3: barba esculpida, cabello largo, cejas finas arqueadas y ojos con brillo.</div><div class="g">{tarjetas}</div>
 <canvas id="lienzo" width="600" height="800" style="display:none"></canvas>
 <script src="file://{THREE}"></script>
 <script>const EP = {{ estilo: "vinil" }}; const PERS = {json.dumps(PERSONAJES, ensure_ascii=False)};
